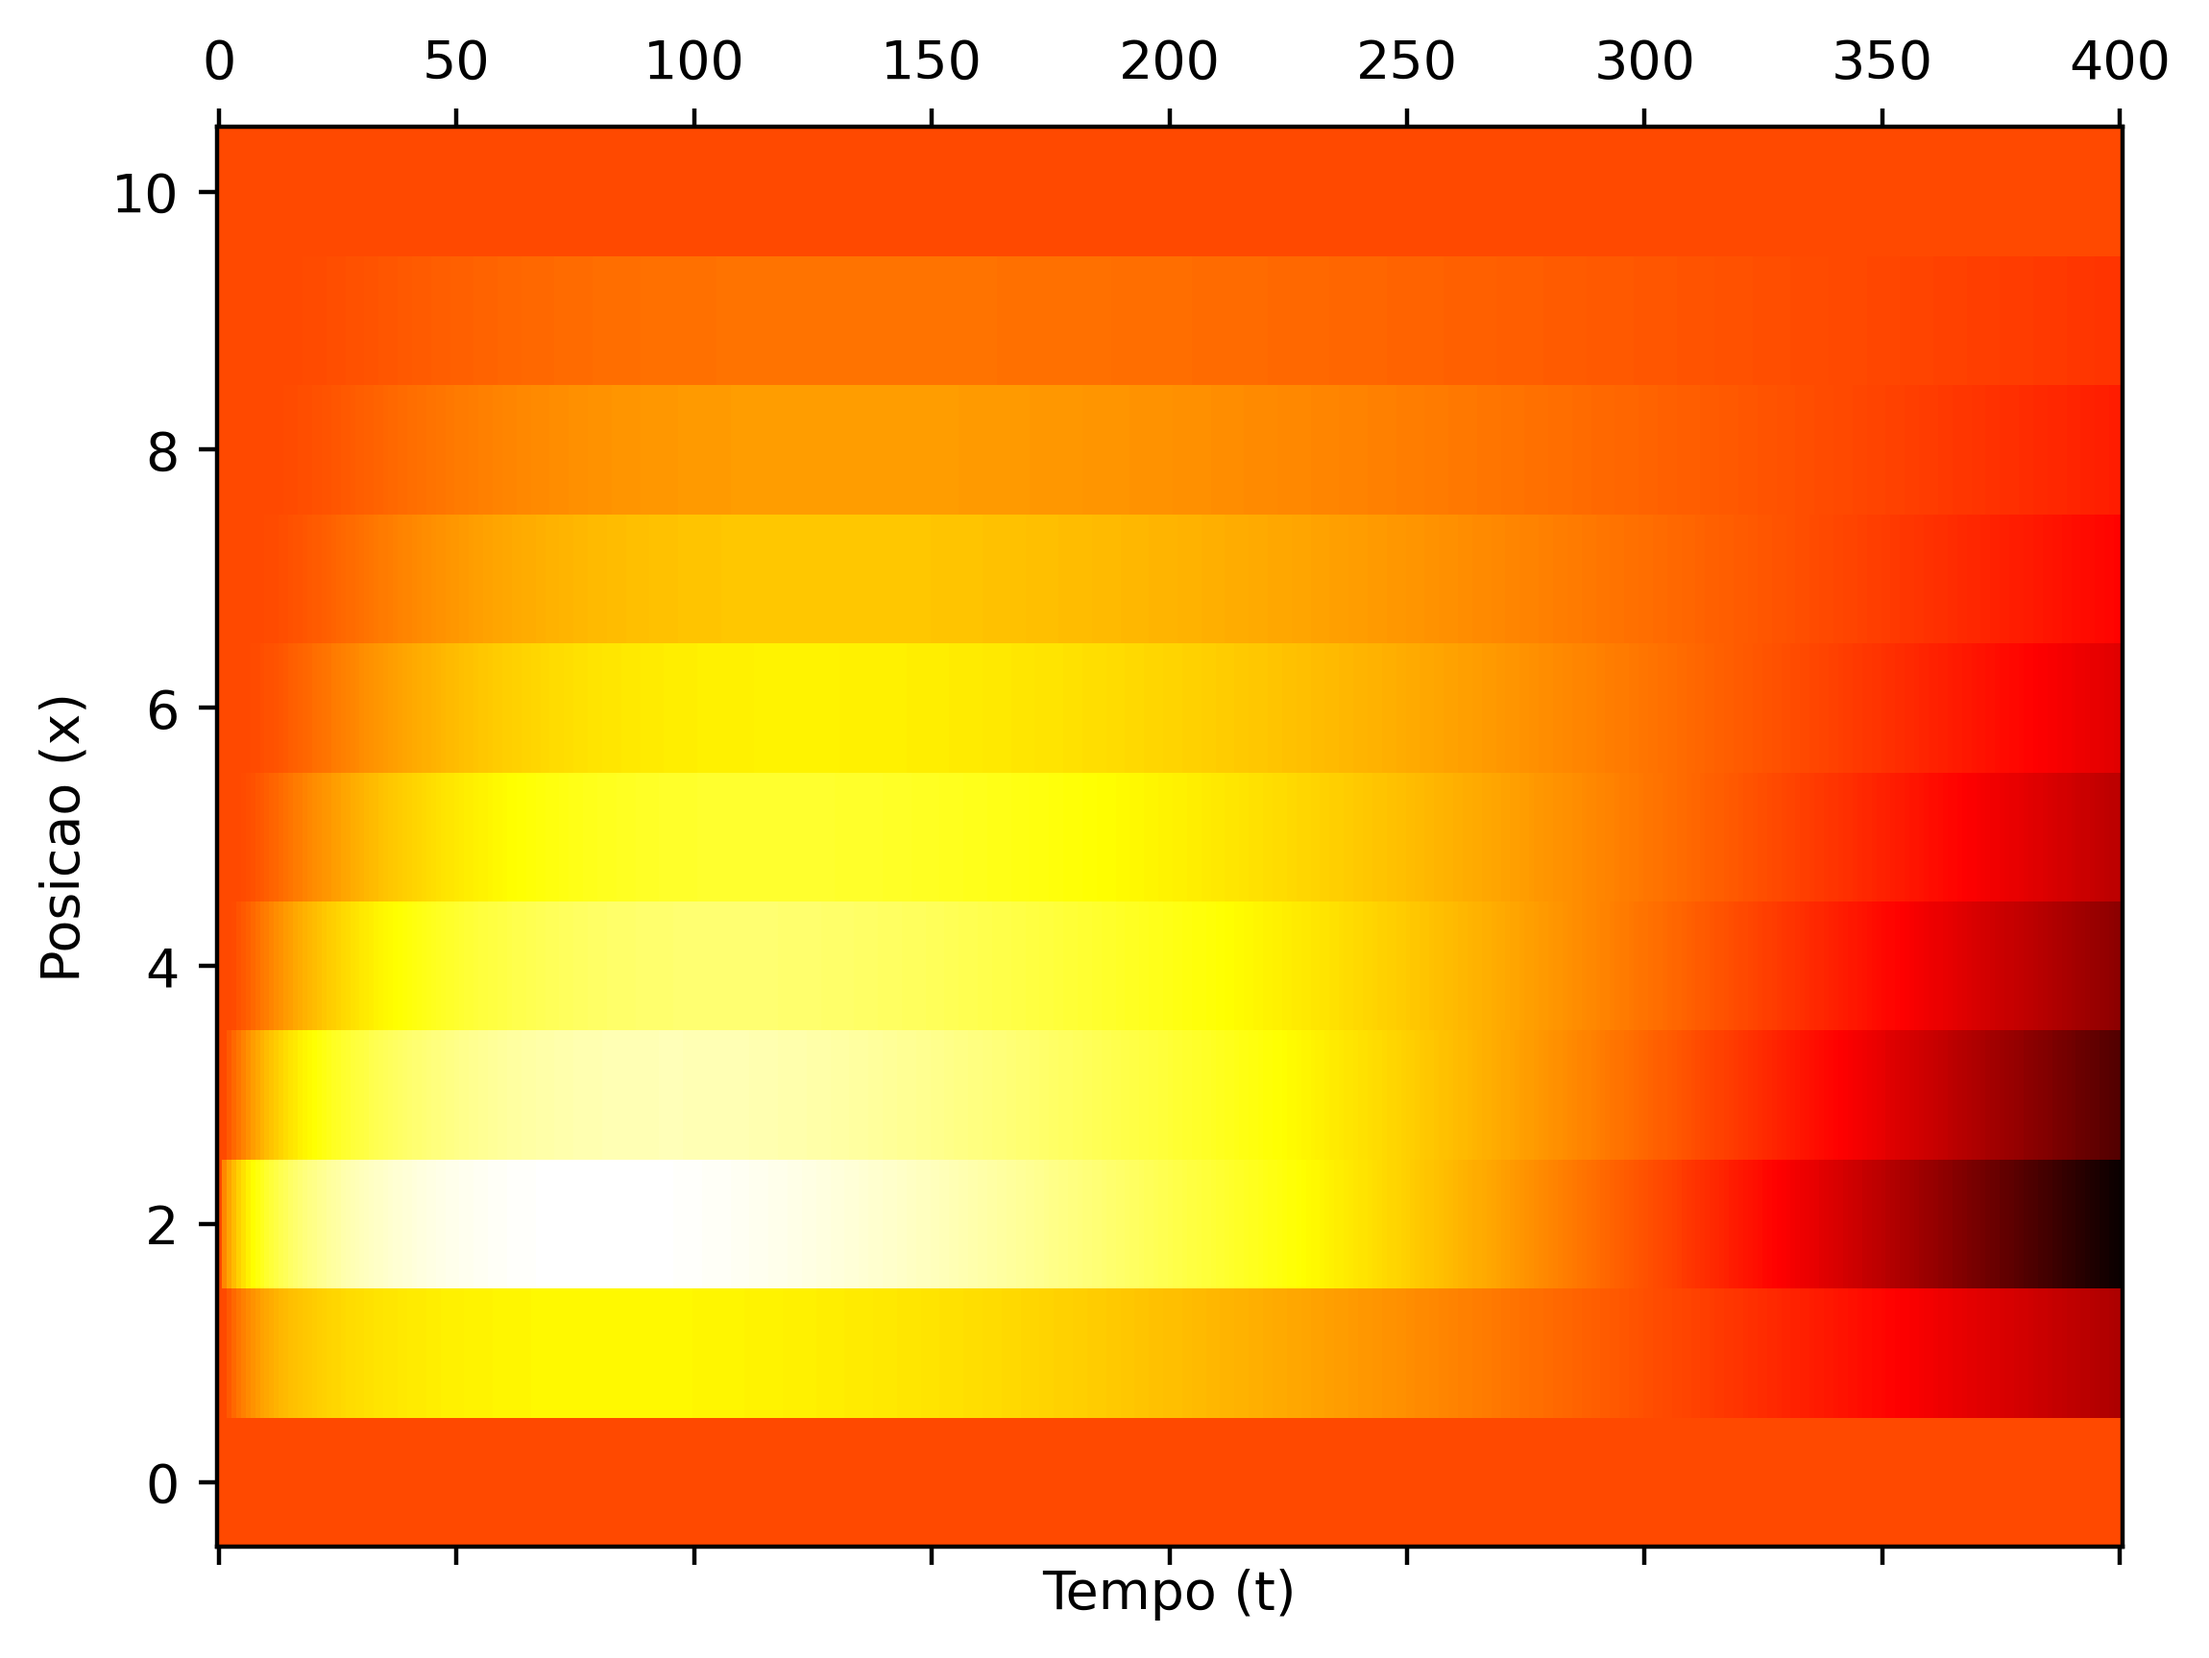
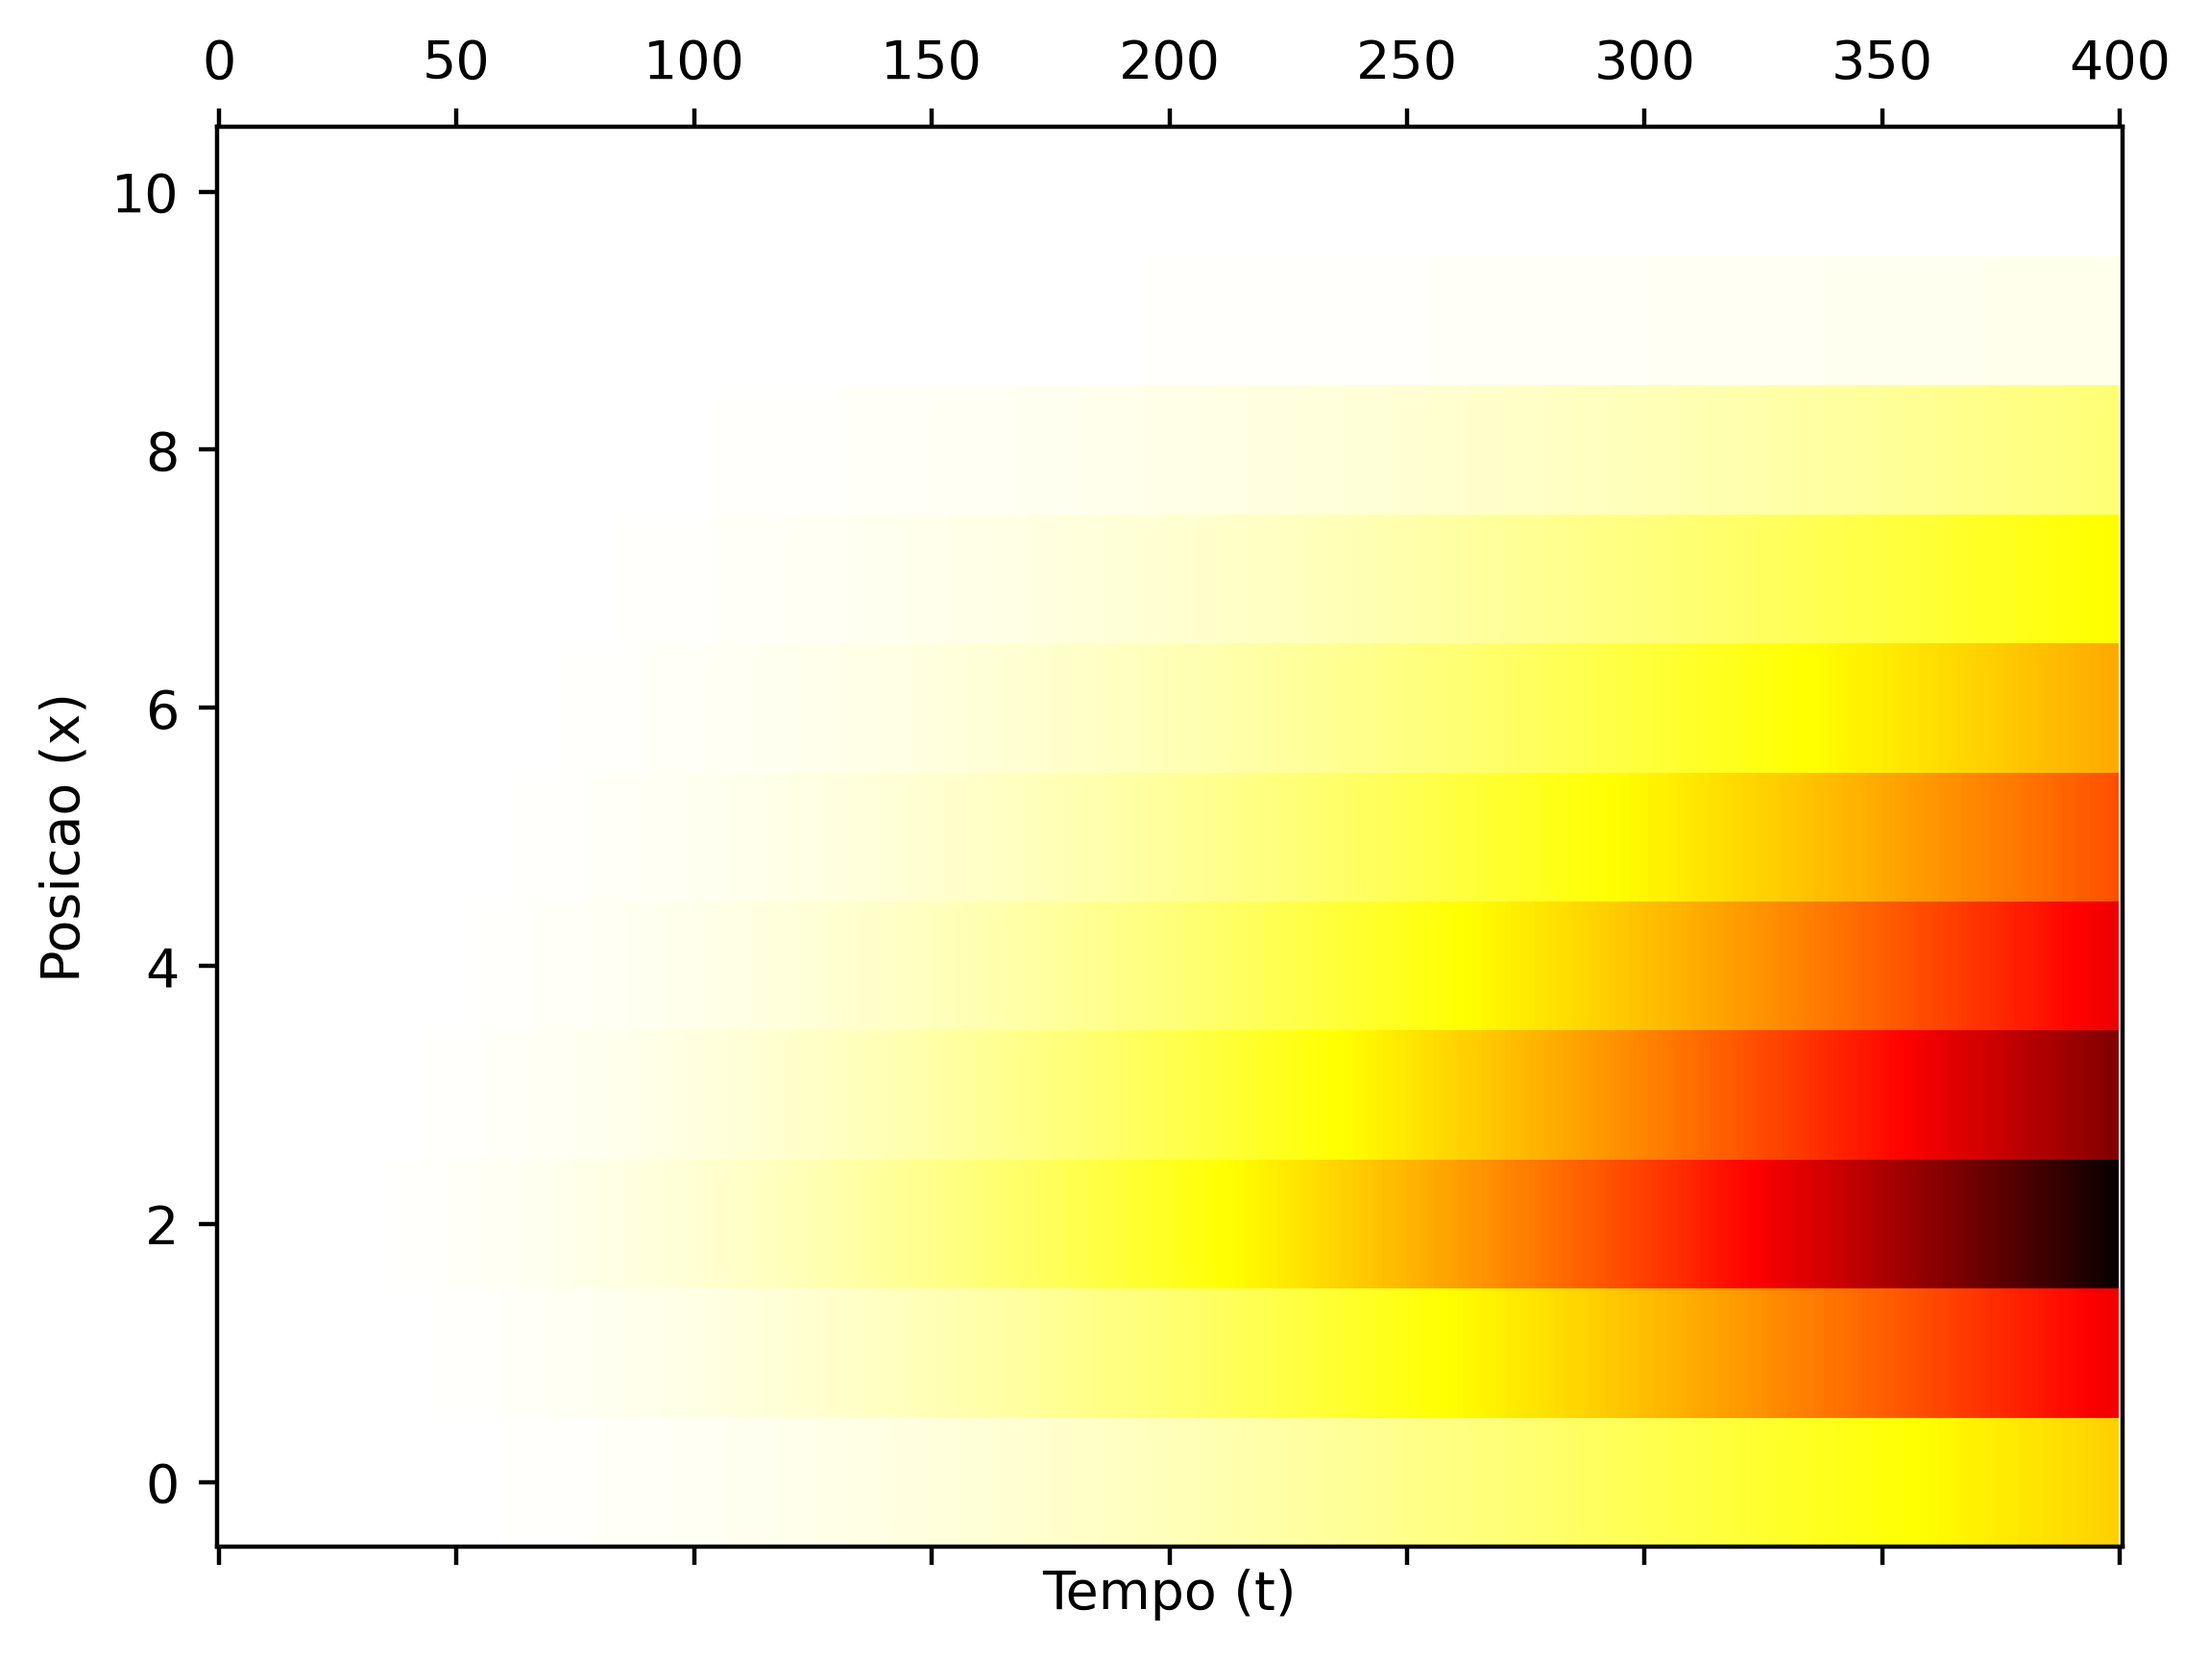
decompor

diff --git a/EP1.py b/EP1.py
@@ -11,7 +11,7 @@ x_total = 1     # Tamanho da "barra"
 
 show=False
 
-item = 'c'
+item = 'a'
 
 @jit
 def funcao_fonte(x_pt, t, N): # funcao de entrada
@@ -99,14 +99,14 @@ def decomporLDL(ł, N):
 
 
     # Condição inicial para prossegir com os cálculos
-    D[0] = D[0]
+    D[0] = 1 + 2*ł
 
     # Cálculo dos valores dos vetores L e D
     for i in range (1, len(D)):
-        D[i] = D[0] - (((L[0]/ł)**2)*ł)
+        D[i] = 1+2*ł - (((-ł/D[i-1])**2)*D[i-1])
     
     for i in range (0, len(L)):
-        L[i] = L[0]/ł
+        L[i] = -ł/D[i]
 
     # Criação das matrizes L e D a partir dos vetores
     D_matriz = np.zeros((N, N))
@@ -144,7 +144,7 @@ def invert_bidiagonal(M, type):
     elif type == "upper":
         for i in range(M.shape[0] - 1):
             inverse[i][i+1] = -M[i][i+1]
-        for k in range(2, M.shape[0]):
+        for k in range(2, M.shape[0]):  
             for i in range(M.shape[0] - k):
                 inverse[i][k+i] = inverse[i][k+i-1]*inverse[i+1][k+i]/inverse[i+1][k+i-1]
 
@@ -217,30 +217,15 @@ for lamb in lambdas:
                 x = j*delta_x
 
                 v = np.zeros((N))
-                v[0] = matriz[i-1][0] + delta_t*funcao_fonte(0, i+1, N) + lamb*g1((i+1)*delta_t)
-                v[N-1] = matriz[i-1][N] + delta_t*funcao_fonte(1, i+1, N) + lamb*g2((i+1)*delta_t)
+                v[0] = matriz[i-1][0] + delta_t*funcao_fonte(0, i, N) + lamb*g1((i)*delta_t)
+                v[N-1] = matriz[i-1][N] + delta_t*funcao_fonte(1, i, N) + lamb*g2((i)*delta_t)
                 L, D, Lt = decomporLDL(lamb, N)
 
                 for j in range(1, N-1):
-                    v[j] = matriz[i-1][j] + delta_t*funcao_fonte(j, i+1, N)
-                
+                    v[j] = matriz[i-1][j] + delta_t*funcao_fonte(j, i, N)
                 aux = np.dot(invert_bidiagonal(L, "lower"), v)
                 aux = np.dot(invert_diagonal(D), aux)
-                matriz[i] = np.dot(invert_bidiagonal(Lt, "upper"), aux)
-
-
-
-
-
-
-
-
-
-
-
-
-
-
+                matriz[i][:N] = np.dot(invert_bidiagonal(Lt, "upper"), aux)
 
 
         ###############################################################
